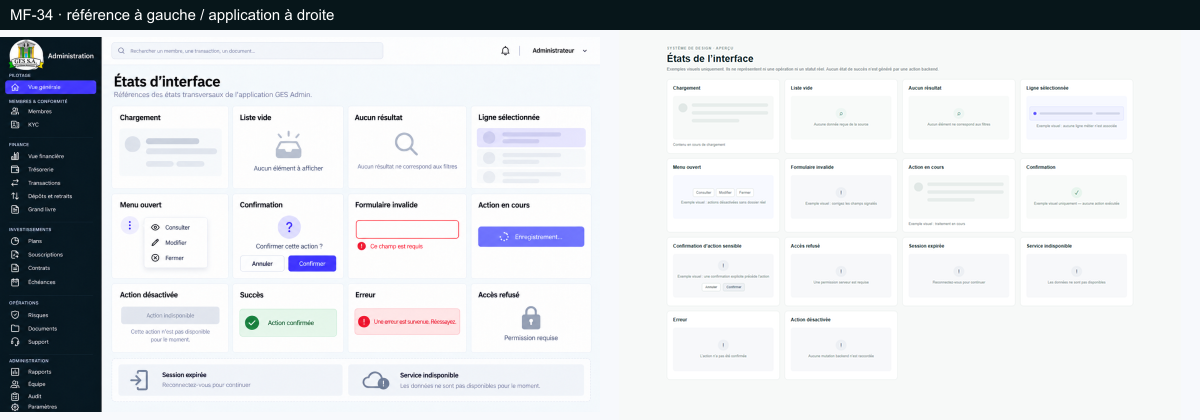
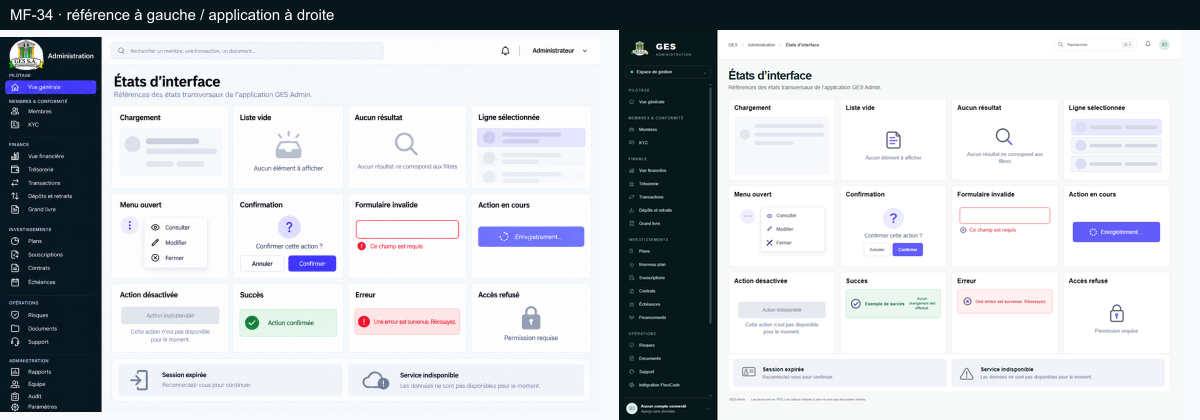
Align interface state gallery with MF-34

diff --git a/components/admin-shell.tsx b/components/admin-shell.tsx
@@ -26,7 +26,7 @@ const pages: Record<string, { title: string; subtitle: string }> = {
   "vue-financiere": { title: "Vue financière générale", subtitle: "Aperçu de la position financière de GES Admin en HTG et USD." }, tresorerie: { title: "Trésorerie", subtitle: "Positions de trésorerie" }, transactions: { title: "Transactions", subtitle: "Consultez et gérez l’ensemble des transactions." },
   "depots-retraits": { title: "Dépôts et retraits", subtitle: "Suivi des mouvements entrants et sortants" }, "grand-livre": { title: "Grand livre et rapprochement", subtitle: "Consultation du grand livre comptable et rapprochement des soldes." }, plans: { title: "Catalogue des plans d’investissement", subtitle: "Vue d’ensemble des plans d’investissement autorisés sur GES Admin." },
   souscriptions: { title: "Souscriptions", subtitle: "Vue d’ensemble des souscriptions effectuées sur GES Admin." }, contrats: { title: "Contrats d’investissement", subtitle: "Liste des contrats d’investissement enregistrés dans GES Admin." }, echeances: { title: "Échéances et distributions", subtitle: "Suivi des échéances et des distributions de capital et d’intérêts." }, financements: { title: "Financements GES", subtitle: "Gestion des dossiers de financement du GES Admin." }, "plans/nouveau": { title: "Nouveau plan d’investissement", subtitle: "Créer un nouveau plan d’investissement (brouillon)." },
-  risques: { title: "Risques et alertes", subtitle: "Surveillance des risques et des alertes de GES Admin." }, documents: { title: "Documents et notifications", subtitle: "Consultez les documents et les notifications de GES Admin." }, support: { title: "Assistance et tickets", subtitle: "Liste des demandes d’assistance et de support de GES Admin." }, rapports: { title: "Rapports et analyses", subtitle: "Analysez l’activité de GES Admin grâce à des rapports et des visualisations." }, equipe: { title: "Équipe et administrateurs", subtitle: "Gestion des administrateurs et de leurs permissions dans GES Admin." }, audit: { title: "Audit administratif", subtitle: "Journal des événements administratifs de GES Admin." }, parametres: { title: "Paramètres GES", subtitle: "Configuration générale et préférences organisationnelles." }, notifications: { title: "Notifications", subtitle: "Centre de notifications administratives" }, "roles-permissions": { title: "Rôles et permissions", subtitle: "Gestion des rôles et des permissions dans GES Admin." }, "integrations-flexicash": { title: "Intégration FlexiCash", subtitle: "Vue d\u2019ensemble de l\u2019intégration entre GES Admin et FlexiCash." },
+  risques: { title: "Risques et alertes", subtitle: "Surveillance des risques et des alertes de GES Admin." }, documents: { title: "Documents et notifications", subtitle: "Consultez les documents et les notifications de GES Admin." }, support: { title: "Assistance et tickets", subtitle: "Liste des demandes d’assistance et de support de GES Admin." }, rapports: { title: "Rapports et analyses", subtitle: "Analysez l’activité de GES Admin grâce à des rapports et des visualisations." }, equipe: { title: "Équipe et administrateurs", subtitle: "Gestion des administrateurs et de leurs permissions dans GES Admin." }, audit: { title: "Audit administratif", subtitle: "Journal des événements administratifs de GES Admin." }, parametres: { title: "Paramètres GES", subtitle: "Configuration générale et préférences organisationnelles." }, notifications: { title: "Notifications", subtitle: "Centre de notifications administratives" }, "roles-permissions": { title: "Rôles et permissions", subtitle: "Gestion des rôles et des permissions dans GES Admin." }, "integrations-flexicash": { title: "Intégration FlexiCash", subtitle: "Vue d\u2019ensemble de l\u2019intégration entre GES Admin et FlexiCash." }, "etats-interface": { title: "États d’interface", subtitle: "Références des états transversaux de l’application GES Admin." },
 };
 
 const detailPages: Record<string, { title: string; subtitle: string }> = {
@@ -37,7 +37,6 @@ const detailPages: Record<string, { title: string; subtitle: string }> = {
   "contrats/dossier": { title: "Détail du contrat", subtitle: "Consultez les informations détaillées du contrat d’investissement." },
   "risques/incident": { title: "Détail d’un incident", subtitle: "Consultation complète des informations et de l’enquête associées à un incident." },
   "support/conversation": { title: "Conversation d’assistance", subtitle: "" },
-  "etats-interface": { title: "États de l’interface", subtitle: "Références visuelles des états partagés" },
 };
 
 function EmptyPanel({ title, searching = false }: { title: string; searching?: boolean }) {
@@ -148,7 +147,7 @@ export function AdminShell({ section }: { section: string }) {
     </aside>
     {menuOpen && <button className="drawer-backdrop visible" type="button" aria-label="Fermer le menu" tabIndex={-1} onClick={closeMenu}/>}
     <main className="main-area" id="main-content" tabIndex={-1} inert={menuOpen}><header className="topbar"><button ref={menuButtonRef} className="mobile-menu-toggle" onClick={() => menuOpen ? closeMenu() : setMenuOpen(true)} aria-label={menuOpen ? "Fermer le menu" : "Ouvrir le menu"} aria-expanded={menuOpen} aria-controls="primary-navigation">{menuOpen ? <Image src="/assets/icons/close.webp" alt="" width={19} height={19}/> : <span className="menu-bars" aria-hidden="true"/>}</button><div className="breadcrumb">GES <span>/</span> Administration <span>/</span> <b>{page.title}</b></div><div className="top-actions"><label className="search"><Image src="/assets/icons/search.webp" alt="" width={15} height={15}/><input placeholder="Rechercher" aria-label="Rechercher" value={searchQuery} onChange={(event) => setSearchQuery(event.target.value)}/><kbd>⌘ K</kbd></label><Link href="/admin/notifications" className="bell" aria-label="Notifications"><Image src="/assets/icons/notification.webp" alt="" width={19} height={19}/></Link><div className="top-avatar"><Image src="/assets/icons/identity.webp" alt="" width={16} height={16}/></div></div></header>
-      <div className={`content ${key === "plans/nouveau" ? "plan-content" : ""}`}>{key === "souscriptions/dossier" && <Link className="detail-back" href="/admin/souscriptions">← Retour aux souscriptions</Link>}{key === "contrats/dossier" && <Link className="detail-back" href="/admin/contrats">← Retour aux contrats</Link>}{key === "risques/incident" && <Link className="detail-back" href="/admin/risques">← Retour aux alertes</Link>}{key === "support/conversation" && <Link className="detail-back" href="/admin/support">← Retour aux tickets</Link>}<div className="page-heading"><div>{key !== "transactions" && key !== "souscriptions/dossier" && key !== "contrats/dossier" && key !== "risques/incident" && key !== "support/conversation" && key !== "documents" && key !== "rapports" && key !== "equipe" && key !== "roles-permissions" && key !== "audit" && key !== "parametres" && key !== "integrations-flexicash" && key !== "notifications" && <div className="eyebrow">ESPACE DE GESTION</div>}<h1>{page.title}</h1>{page.subtitle && <p>{page.subtitle}</p>}</div><div className="heading-actions">{key === "rapports" && <div className="reports-page-filters"><button className="filter-button" disabled>Tous les rapports <span>⌄</span></button><button className="filter-button" disabled><Image src="/assets/icons/calendar.webp" alt="" width={16} height={16}/> Période non sélectionnée <span>⌄</span></button></div>}{key !== "souscriptions/dossier" && key !== "contrats/dossier" && key !== "risques/incident" && key !== "support/conversation" && key !== "documents" && key !== "rapports" && key !== "equipe" && key !== "roles-permissions" && key !== "audit" && key !== "parametres" && key !== "integrations-flexicash" && key !== "notifications" && <span className="status-pill preview-pill"><i/> Aperçu sans connexion aux données</span>}</div></div>
+      <div className={`content ${key === "plans/nouveau" ? "plan-content" : ""}`}>{key === "souscriptions/dossier" && <Link className="detail-back" href="/admin/souscriptions">← Retour aux souscriptions</Link>}{key === "contrats/dossier" && <Link className="detail-back" href="/admin/contrats">← Retour aux contrats</Link>}{key === "risques/incident" && <Link className="detail-back" href="/admin/risques">← Retour aux alertes</Link>}{key === "support/conversation" && <Link className="detail-back" href="/admin/support">← Retour aux tickets</Link>}<div className="page-heading"><div>{key !== "transactions" && key !== "souscriptions/dossier" && key !== "contrats/dossier" && key !== "risques/incident" && key !== "support/conversation" && key !== "documents" && key !== "rapports" && key !== "equipe" && key !== "roles-permissions" && key !== "audit" && key !== "parametres" && key !== "integrations-flexicash" && key !== "notifications" && key !== "etats-interface" && <div className="eyebrow">ESPACE DE GESTION</div>}<h1>{page.title}</h1>{page.subtitle && <p>{page.subtitle}</p>}</div><div className="heading-actions">{key === "rapports" && <div className="reports-page-filters"><button className="filter-button" disabled>Tous les rapports <span>⌄</span></button><button className="filter-button" disabled><Image src="/assets/icons/calendar.webp" alt="" width={16} height={16}/> Période non sélectionnée <span>⌄</span></button></div>}{key !== "souscriptions/dossier" && key !== "contrats/dossier" && key !== "risques/incident" && key !== "support/conversation" && key !== "documents" && key !== "rapports" && key !== "equipe" && key !== "roles-permissions" && key !== "audit" && key !== "parametres" && key !== "integrations-flexicash" && key !== "notifications" && key !== "etats-interface" && <span className="status-pill preview-pill"><i/> Aperçu sans connexion aux données</span>}</div></div>
       {key === "notifications" ? <NotificationsWorkspace query={searchQuery} onQueryChange={setSearchQuery}/> : key === "plans/nouveau" ? <><Link href="/admin/plans" className="plan-back">← Retour aux plans</Link><PlanForm/></> : overview ? <>{financial && <div className="module-notice">Valeurs initiales — les montants affichés sont à confirmer et ne constituent pas des soldes vérifiés.</div>}<div className={`metric-grid ${financial ? "financial-metrics" : ""}`}>{metrics.map(([label,value,caption])=><MetricCard key={label} label={label} value={value} caption={caption}/>)}</div>
       {financial && <UsdUnavailable/>}
       <div className={`overview-grid ${financial ? "financial-overview-grid" : "command-overview-grid"}`}><section className="panel"><div className="panel-head"><div><h2>{financial ? "Tendance de trésorerie" : "Tendance financière"}</h2></div>{financial && <button className="select-button" disabled title="Les données sont indisponibles">Période⌄</button>}</div><div className="chart-empty"><div className="chart-lines"><span/><span/><span/><span/></div><div className="chart-message">Aucune donnée disponible</div></div></section><section className="panel breakdown"><div className="panel-head"><div><h2>{financial ? "Obligations à venir" : "Répartition des investissements"}</h2></div>{financial && <button className="dots" disabled aria-label="Options indisponibles">···</button>}</div>{financial ? <div className="donut-wrap"><p>Aucune donnée disponible</p></div> : <div className="donut-wrap"><div className="donut"><div/></div><p>Aucune donnée disponible</p></div>}</section></div>

diff --git a/components/interface-state-gallery.tsx b/components/interface-state-gallery.tsx
@@ -1,20 +1,41 @@
+import Image from "next/image";
+
 const states = [
-  { title: "Chargement", type: "skeleton", copy: "Contenu en cours de chargement" },
-  { title: "Liste vide", type: "empty", copy: "Aucune donnée reçue de la source" },
-  { title: "Aucun résultat", type: "empty", copy: "Aucun élément ne correspond aux filtres" },
-  { title: "Ligne sélectionnée", type: "selected", copy: "Exemple visuel : aucune ligne métier n’est associée" },
-  { title: "Menu ouvert", type: "menu", copy: "Exemple visuel : actions désactivées sans dossier réel" },
-  { title: "Formulaire invalide", type: "blocked", copy: "Exemple visuel : corrigez les champs signalés" },
-  { title: "Action en cours", type: "skeleton", copy: "Exemple visuel : traitement en cours" },
-  { title: "Confirmation", type: "success", copy: "Exemple visuel uniquement — aucune action exécutée" },
-  { title: "Confirmation d’action sensible", type: "confirm", copy: "Exemple visuel : une confirmation explicite précède l’action" },
-  { title: "Accès refusé", type: "blocked", copy: "Une permission serveur est requise" },
-  { title: "Session expirée", type: "blocked", copy: "Reconnectez-vous pour continuer" },
-  { title: "Service indisponible", type: "blocked", copy: "Les données ne sont pas disponibles" },
-  { title: "Erreur", type: "blocked", copy: "L’action n’a pas été confirmée" },
-  { title: "Action désactivée", type: "blocked", copy: "Aucune mutation backend n’est raccordée" },
+  { title: "Chargement", type: "loading" },
+  { title: "Liste vide", type: "empty" },
+  { title: "Aucun résultat", type: "no-results" },
+  { title: "Ligne sélectionnée", type: "selected" },
+  { title: "Menu ouvert", type: "menu" },
+  { title: "Confirmation", type: "confirmation" },
+  { title: "Formulaire invalide", type: "invalid" },
+  { title: "Action en cours", type: "pending" },
+  { title: "Action désactivée", type: "disabled" },
+  { title: "Succès", type: "success" },
+  { title: "Erreur", type: "error" },
+  { title: "Accès refusé", type: "denied" },
 ];
 
+function StatePreview({ type }: { type: string }) {
+  if (type === "loading") return <div className="state-preview skeleton-demo" aria-label="Chargement"><i/><span/><span/><span/></div>;
+  if (type === "empty") return <div className="state-preview state-empty"><Image src="/assets/icons/document.webp" alt="" width={48} height={48}/><p>Aucun élément à afficher</p></div>;
+  if (type === "no-results") return <div className="state-preview state-no-results"><Image src="/assets/icons/search.webp" alt="" width={48} height={48}/><p>Aucun résultat ne correspond aux filtres</p></div>;
+  if (type === "selected") return <div className="state-preview selected-rows"><div className="selected-row-sample"><i/><span/><span/></div><div className="selected-row-sample muted"><i/><span/><span/></div><div className="selected-row-sample muted"><i/><span/><span/></div></div>;
+  if (type === "menu") return <div className="state-preview open-menu-demo"><button className="menu-trigger" disabled>···</button><div className="state-menu-items"><button disabled><Image src="/assets/icons/view.webp" alt="" width={17} height={17}/>Consulter</button><button disabled><Image src="/assets/icons/edit.webp" alt="" width={17} height={17}/>Modifier</button><button disabled><Image src="/assets/icons/close.webp" alt="" width={17} height={17}/>Fermer</button></div></div>;
+  if (type === "confirmation") return <div className="state-preview confirmation-demo"><div className="confirmation-mark">?</div><p>Confirmer cette action&nbsp;?</p><div><button disabled>Annuler</button><button disabled>Confirmer</button></div></div>;
+  if (type === "invalid") return <div className="state-preview invalid-demo"><input aria-label="Champ obligatoire" aria-invalid="true" readOnly value=""/><p><Image src="/assets/icons/error.webp" alt="" width={18} height={18}/>Ce champ est requis</p></div>;
+  if (type === "pending") return <div className="state-preview pending-demo"><button disabled><span className="state-spinner"/>Enregistrement…</button></div>;
+  if (type === "disabled") return <div className="state-preview disabled-demo"><button disabled>Action indisponible</button><p>Cette action n’est pas disponible pour le moment.</p></div>;
+  if (type === "success") return <div className="state-preview result-demo success-demo"><Image src="/assets/icons/success.webp" alt="" width={30} height={30}/><strong>Exemple de succès</strong><span>Aucun changement réel effectué.</span></div>;
+  if (type === "error") return <div className="state-preview result-demo error-demo"><Image src="/assets/icons/error.webp" alt="" width={24} height={24}/><span>Une erreur est survenue. Réessayez.</span></div>;
+  return <div className="state-preview denied-demo"><Image src="/assets/icons/security.webp" alt="" width={50} height={50}/><p>Permission requise</p></div>;
+}
+
 export function InterfaceStateGallery() {
-  return <main className="state-gallery"><div className="eyebrow">SYSTÈME DE DESIGN · APERÇU</div><h1>États de l’interface</h1><p className="state-note">Exemples visuels uniquement. Ils ne représentent ni une opération ni un statut réel. Aucun état de succès n’est généré par une action backend.</p><div className="state-grid">{states.map((state) => <section className="panel state-card" key={state.title}><h2>{state.title}</h2>{state.type === "skeleton" ? <><div className="skeleton-demo" aria-hidden="true"><i/><span/><span/><span/></div><p className="state-caption">{state.copy}</p></> : state.type === "confirm" ? <div className="state-demo blocked"><div className="state-mark">!</div><p>{state.copy}</p><div className="state-confirm-actions"><button disabled>Annuler</button><button disabled>Confirmer</button></div></div> : state.type === "selected" ? <div className="state-demo selected-row-demo"><div className="selected-row-sample" aria-hidden="true"><i/><span/><span/></div><p>{state.copy}</p></div> : state.type === "menu" ? <div className="state-demo menu-demo"><div className="state-menu-items"><button disabled>Consulter</button><button disabled>Modifier</button><button disabled>Fermer</button></div><p>{state.copy}</p></div> : <div className={`state-demo ${state.type}`}><div className="state-mark">{state.type === "empty" ? "⌕" : state.type === "success" ? "✓" : "!"}</div><p>{state.copy}</p></div>}</section>)}</div></main>;
+  return <div className="state-gallery">
+    <div className="state-grid">{states.map((state) => <section className="panel state-card" key={state.type}><h2>{state.title}</h2><StatePreview type={state.type}/></section>)}</div>
+    <section className="panel state-session-strip">
+      <div className="state-session-item"><Image src="/assets/icons/identity.webp" alt="" width={40} height={40}/><div><strong>Session expirée</strong><span>Reconnectez-vous pour continuer.</span></div></div>
+      <div className="state-session-item"><Image src="/assets/icons/alert.webp" alt="" width={40} height={40}/><div><strong>Service indisponible</strong><span>Les données ne sont pas disponibles pour le moment.</span></div></div>
+    </section>
+  </div>;
 }

diff --git a/app/globals.css b/app/globals.css
@@ -88,3 +88,5 @@ a:focus-visible,button:focus-visible,input:focus-visible,select:focus-visible,te
 .integration-separation-notice{min-height:72px;box-sizing:border-box;display:flex;align-items:center;gap:16px;padding:14px 20px;margin:0 0 20px;border:1px solid #a9c8ff;border-radius:8px;background:#e5efff;color:#173268;font-size:15px}.integration-separation-notice img{width:34px;height:34px}.integration-panels{gap:12px}.integration-card{min-height:380px;padding:16px 20px}.integration-card>h2{margin:0;font:700 18px Arial,Helvetica,sans-serif}.integration-empty{min-height:320px;display:flex;align-items:center;justify-content:center;flex-direction:column;text-align:center;padding:16px}.integration-empty .settings-empty-icon{width:80px;height:80px;margin-bottom:15px}.integration-empty .settings-empty-icon img{width:38px;height:38px}.integration-empty strong{font-size:18px}.integration-empty p{max-width:370px;margin:8px 0 0;color:#7c88ac;font-size:15px;line-height:1.5}@media(max-width:760px){.integration-separation-notice{min-height:62px;padding:12px;font-size:12px;gap:10px}.integration-separation-notice img{width:26px;height:26px}.integration-card{min-height:290px;padding:13px}.integration-card>h2{font-size:15px}.integration-empty{min-height:240px;padding:12px}.integration-empty .settings-empty-icon{width:64px;height:64px}.integration-empty strong{font-size:14px}.integration-empty p{font-size:12px}}
 .notifications-workspace{min-height:640px}.notifications-toolbar{min-height:72px;padding:14px 18px;gap:12px}.notifications-toolbar .filter-search{height:46px;max-width:none;flex:1}.notifications-toolbar .filter-button{height:46px;flex:0 1 180px}.notification-empty{min-height:555px}.notification-empty-icon{width:124px;height:124px;background:#f0efff;margin-bottom:20px}.notification-empty-icon img{width:48px;height:48px}.notification-empty h2{font-size:22px}.notification-empty p{font-size:17px;max-width:640px}@media(max-width:700px){.notifications-workspace{min-height:500px}.notifications-toolbar{padding:12px}.notifications-toolbar .filter-search{height:40px}.notifications-toolbar .filter-button{height:40px}.notification-empty{min-height:390px}.notification-empty-icon{width:82px;height:82px}.notification-empty-icon img{width:34px;height:34px}.notification-empty h2{font-size:17px}.notification-empty p{font-size:12px}}
 .notifications-workspace{min-height:660px}
+.state-gallery{max-width:none;margin:0;padding:0}.state-grid{grid-template-columns:repeat(4,minmax(0,1fr));gap:12px}.state-card{min-width:0;min-height:205px;padding:14px}.state-card h2{font:700 16px Arial,Helvetica,sans-serif;margin:0 0 12px;color:#101418}.state-preview{height:150px;min-width:0;border-radius:7px;display:flex;align-items:center;justify-content:center;flex-direction:column;text-align:center;padding:10px;box-sizing:border-box}.state-preview p{margin:8px 0 0;color:#7784a5;font-size:13px;line-height:1.4}.state-card .skeleton-demo{height:150px;background:#f6f8fb;padding:18px 14px;grid-template-columns:28px 1fr;grid-template-rows:repeat(3,13px);gap:9px 10px}.state-card .skeleton-demo i{width:26px;height:26px;background:#e1e6ef}.state-card .skeleton-demo span{height:10px;background:#e1e6ef}.state-card .skeleton-demo span:last-child{width:56%}.state-empty,.state-no-results,.denied-demo{background:#fff}.state-empty>img,.state-no-results>img,.denied-demo>img{width:56px;height:56px;opacity:.7}.state-empty p,.state-no-results p,.denied-demo p{font-size:13px}.selected-rows{gap:5px;padding:6px}.selected-row-sample{height:42px;width:100%;display:flex;align-items:center;gap:8px;padding:0 10px;border-radius:6px;background:#e9e8ff}.selected-row-sample.muted{background:#f4f6f9}.selected-row-sample i{width:28px;height:28px;flex:0 0 auto;border-radius:50%;background:#deddf8}.selected-row-sample span{height:9px;border-radius:7px;background:#d5d9e5;flex:1}.selected-row-sample span:last-child{max-width:42%}.open-menu-demo{position:relative;align-items:flex-start;justify-content:flex-start;padding-left:68px}.menu-trigger{position:absolute;left:16px;top:16px;width:38px;height:38px;border:0;border-radius:50%;background:#f0efff;color:#514be6;font-size:22px}.state-menu-items{width:165px;display:grid;padding:6px;border:1px solid #e2e6ee;border-radius:6px;background:#fff;box-shadow:0 5px 14px rgba(15,28,50,.08)}.state-menu-items button{display:flex;align-items:center;gap:9px;padding:7px;border:0;background:#fff;text-align:left;font-size:12px;color:#46525f}.state-menu-items button img{object-fit:contain}.confirmation-demo .confirmation-mark{width:54px;height:54px;border-radius:50%;background:#ecebff;color:#625dfa;font-size:35px;line-height:54px;font-weight:700}.confirmation-demo p{color:#4e5d7d;font-size:14px}.confirmation-demo>div:last-child{display:flex;gap:6px;margin-top:8px}.confirmation-demo button{height:34px;padding:0 14px;border:1px solid #dfe3ea;border-radius:5px;background:#fff;color:#536172;font-size:11px}.confirmation-demo button:last-child{background:#625dfa;color:#fff;border-color:#625dfa}.invalid-demo{align-items:stretch;justify-content:flex-start;padding:12px 6px}.invalid-demo input{height:42px;border:1px solid #f04452;border-radius:6px;background:#fff}.invalid-demo p{display:flex;align-items:center;gap:7px;margin-top:7px;color:#e33445;text-align:left}.pending-demo button{width:100%;height:52px;display:flex;align-items:center;justify-content:center;gap:10px;border:0;border-radius:6px;background:#625dfa;color:#fff;font-size:14px}.state-spinner{width:19px;height:19px;border:3px dotted #fff;border-radius:50%;animation:state-spin 1.2s linear infinite}@keyframes state-spin{to{transform:rotate(360deg)}}.disabled-demo button{width:100%;height:42px;border:0;border-radius:6px;background:#e6e9ef;color:#7d899d;font-size:12px}.disabled-demo p{max-width:210px}.result-demo{flex-direction:row;justify-content:flex-start;gap:9px;padding:13px}.success-demo{min-height:70px;height:74px;border:1px solid #b6e5cc;background:#eaf7ef;color:#126b3d}.success-demo strong{font-size:13px}.success-demo span{font-size:10px}.error-demo{height:62px;flex-direction:row;border:1px solid #ffb3bb;background:#fff0f1;color:#d92f40;font-size:11px}.state-session-strip{display:grid;grid-template-columns:repeat(2,minmax(0,1fr));gap:12px;padding:12px;border-style:dashed}.state-session-item{min-height:72px;display:flex;align-items:center;gap:14px;padding:12px 18px;border-radius:7px;background:#f1f3f8}.state-session-item>img{width:42px;height:42px;object-fit:contain;opacity:.7}.state-session-item>div{display:grid;gap:5px}.state-session-item strong{font-size:14px}.state-session-item span{font-size:12px;color:#7c88ac}@media(max-width:900px){.state-grid{grid-template-columns:repeat(2,minmax(0,1fr))}}@media(max-width:700px){.state-grid{grid-template-columns:1fr}.state-card{min-height:190px}.state-preview,.state-card .skeleton-demo{height:135px}.state-session-strip{grid-template-columns:1fr}.state-session-item{padding:10px}}
+.state-card .skeleton-demo{display:grid}.success-demo{gap:8px;padding:10px}.success-demo strong{font-size:11px;white-space:nowrap}.success-demo span{font-size:9px;line-height:1.3}.state-session-item img{filter:grayscale(1);opacity:.6}

diff --git a/components/module-workspace.tsx b/components/module-workspace.tsx
@@ -2,6 +2,7 @@
 
 import { useState } from "react";
 import Image from "next/image";
+import { InterfaceStateGallery } from "@/components/interface-state-gallery";
 
 type ModulePage = {
   columns: string[];
@@ -48,6 +49,7 @@ function DistributionValueCard({ label, icon }: { label: string; icon: string })
 export function ModuleWorkspace({ sectionKey, query, onQueryChange }: { sectionKey: string; query: string; onQueryChange: (value: string) => void }) {
   const [activeTab, setActiveTab] = useState(0);
   const page = pages[sectionKey];
+  if (sectionKey === "etats-interface") return <InterfaceStateGallery/>;
   if (sectionKey === "documents") return <>
     <section className="panel communications-panel">
       <div className="communications-header"><h2>Documents</h2><label className="filter-search"><Image src="/assets/icons/search.webp" alt="" width={16} height={16}/><input aria-label="Rechercher un document" placeholder="Rechercher un document…" value={query} onChange={(event) => onQueryChange(event.target.value)}/></label><button className="filter-button" disabled>Tous les types <span>⌄</span></button></div>

diff --git a/app/admin/etats-interface/page.tsx b/app/admin/etats-interface/page.tsx
@@ -1,10 +1,12 @@
 import { AccessGate } from "@/components/access-gate";
-import { InterfaceStateGallery } from "@/components/interface-state-gallery";
-import { isLocalDesignPreview } from "@/lib/supabase/admin-access";
+import { AdminShell } from "@/components/admin-shell";
+import { checkAdminAccess, isLocalDesignPreview } from "@/lib/supabase/admin-access";
 
 export const dynamic = "force-dynamic";
 
-export default function InterfaceStatesPage() {
-  if (!isLocalDesignPreview()) return <AccessGate reason="La galerie d’états est réservée à l’aperçu local." />;
-  return <InterfaceStateGallery/>;
+export default async function InterfaceStatesPage() {
+  if (isLocalDesignPreview()) return <AdminShell section="etats-interface"/>;
+  const access = await checkAdminAccess();
+  if (!access.allowed) return <AccessGate reason={access.reason} login={access.login}/>;
+  return <AdminShell section="etats-interface"/>;
 }

diff --git a/design/qa/README.md b/design/qa/README.md
@@ -174,3 +174,4 @@ Captures MF-30 : admin-audit-1440x1000.png et admin-audit-390x844.png. Recherche
 Captures MF-31 : admin-parametres-1440x1000.png et admin-parametres-390x844.png. Les quatre groupes restent indisponibles sans source autorisee; Enregistrer est desactive sans contrat confirme. Aucun taux, devise ou reglage fictif.
 Captures MF-32 : admin-integrations-flexicash-1440x1000.png et admin-integrations-flexicash-390x844.png. Seules les donnees d’integration et operations GES sont prevues; aucun controle interne FlexiCash, compte, webhook, statut ou transaction fictif.
 Captures MF-33 : admin-notifications-1440x1000.png et admin-notifications-390x844.png. Inbox vide, filtres de lecture/type/periode sans valeur selectionnee et aucune alerte, urgence ou date inventee.
+Captures MF-34 : admin-etats-interface-1440x1000.png et admin-etats-interface-390x844.png. Galerie dans la coque d’administration : chargement, liste vide, filtres sans resultat, selection, menu, confirmation, validation, progression, action desactivee, succes exemple, erreur, refus, session expiree et service indisponible. Toutes les mutations visibles restent desactivees; aucun etat n’est associe a une operation reelle.
